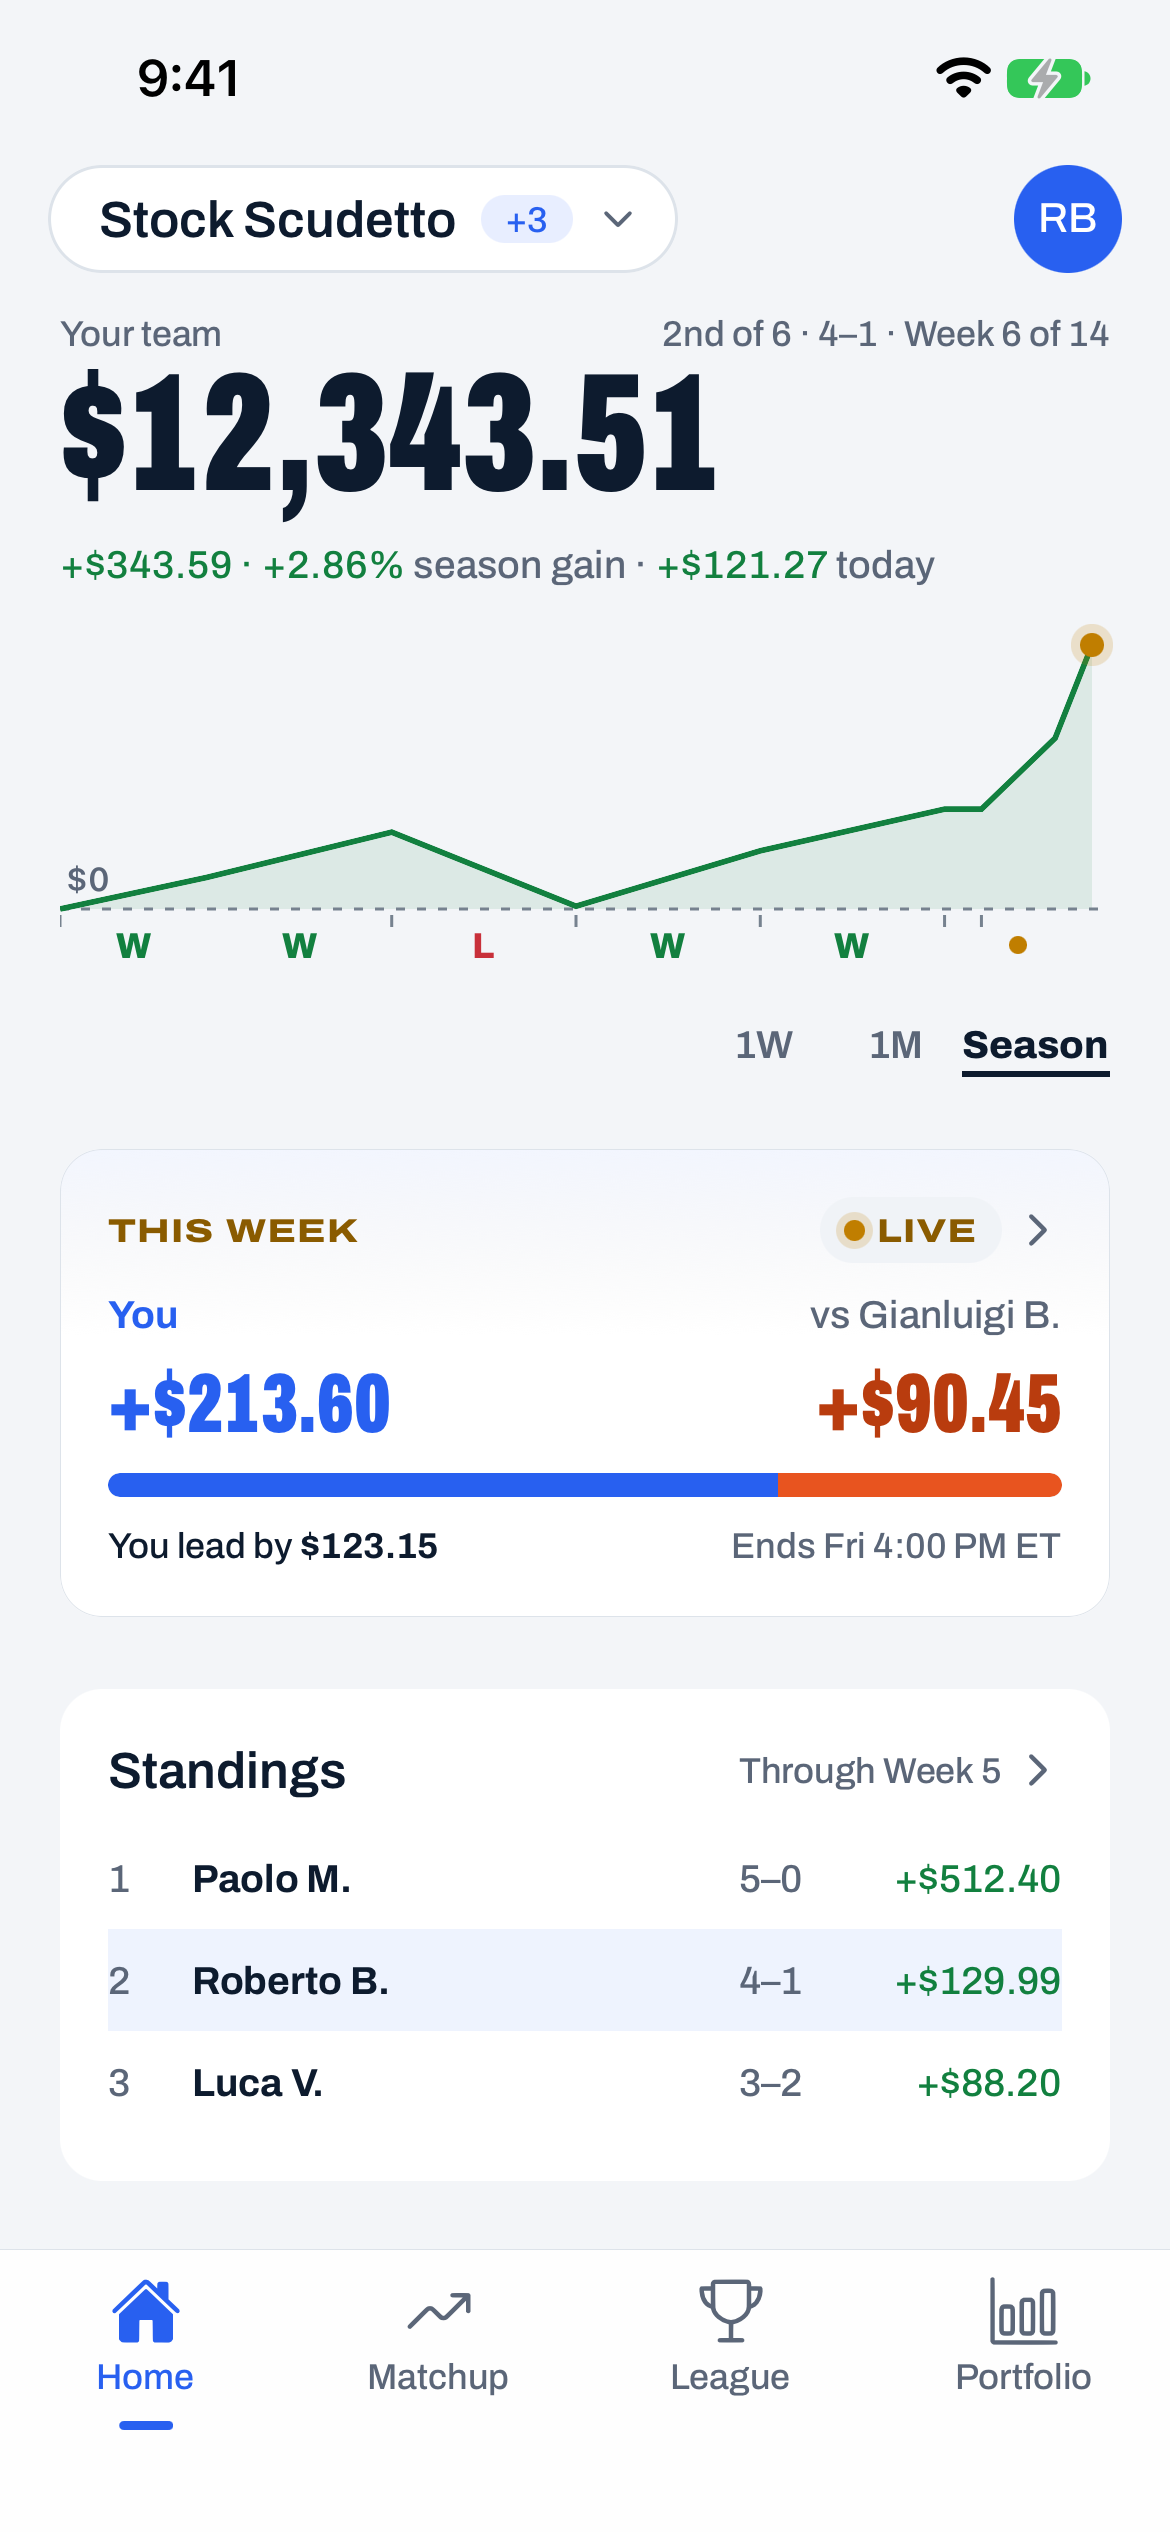
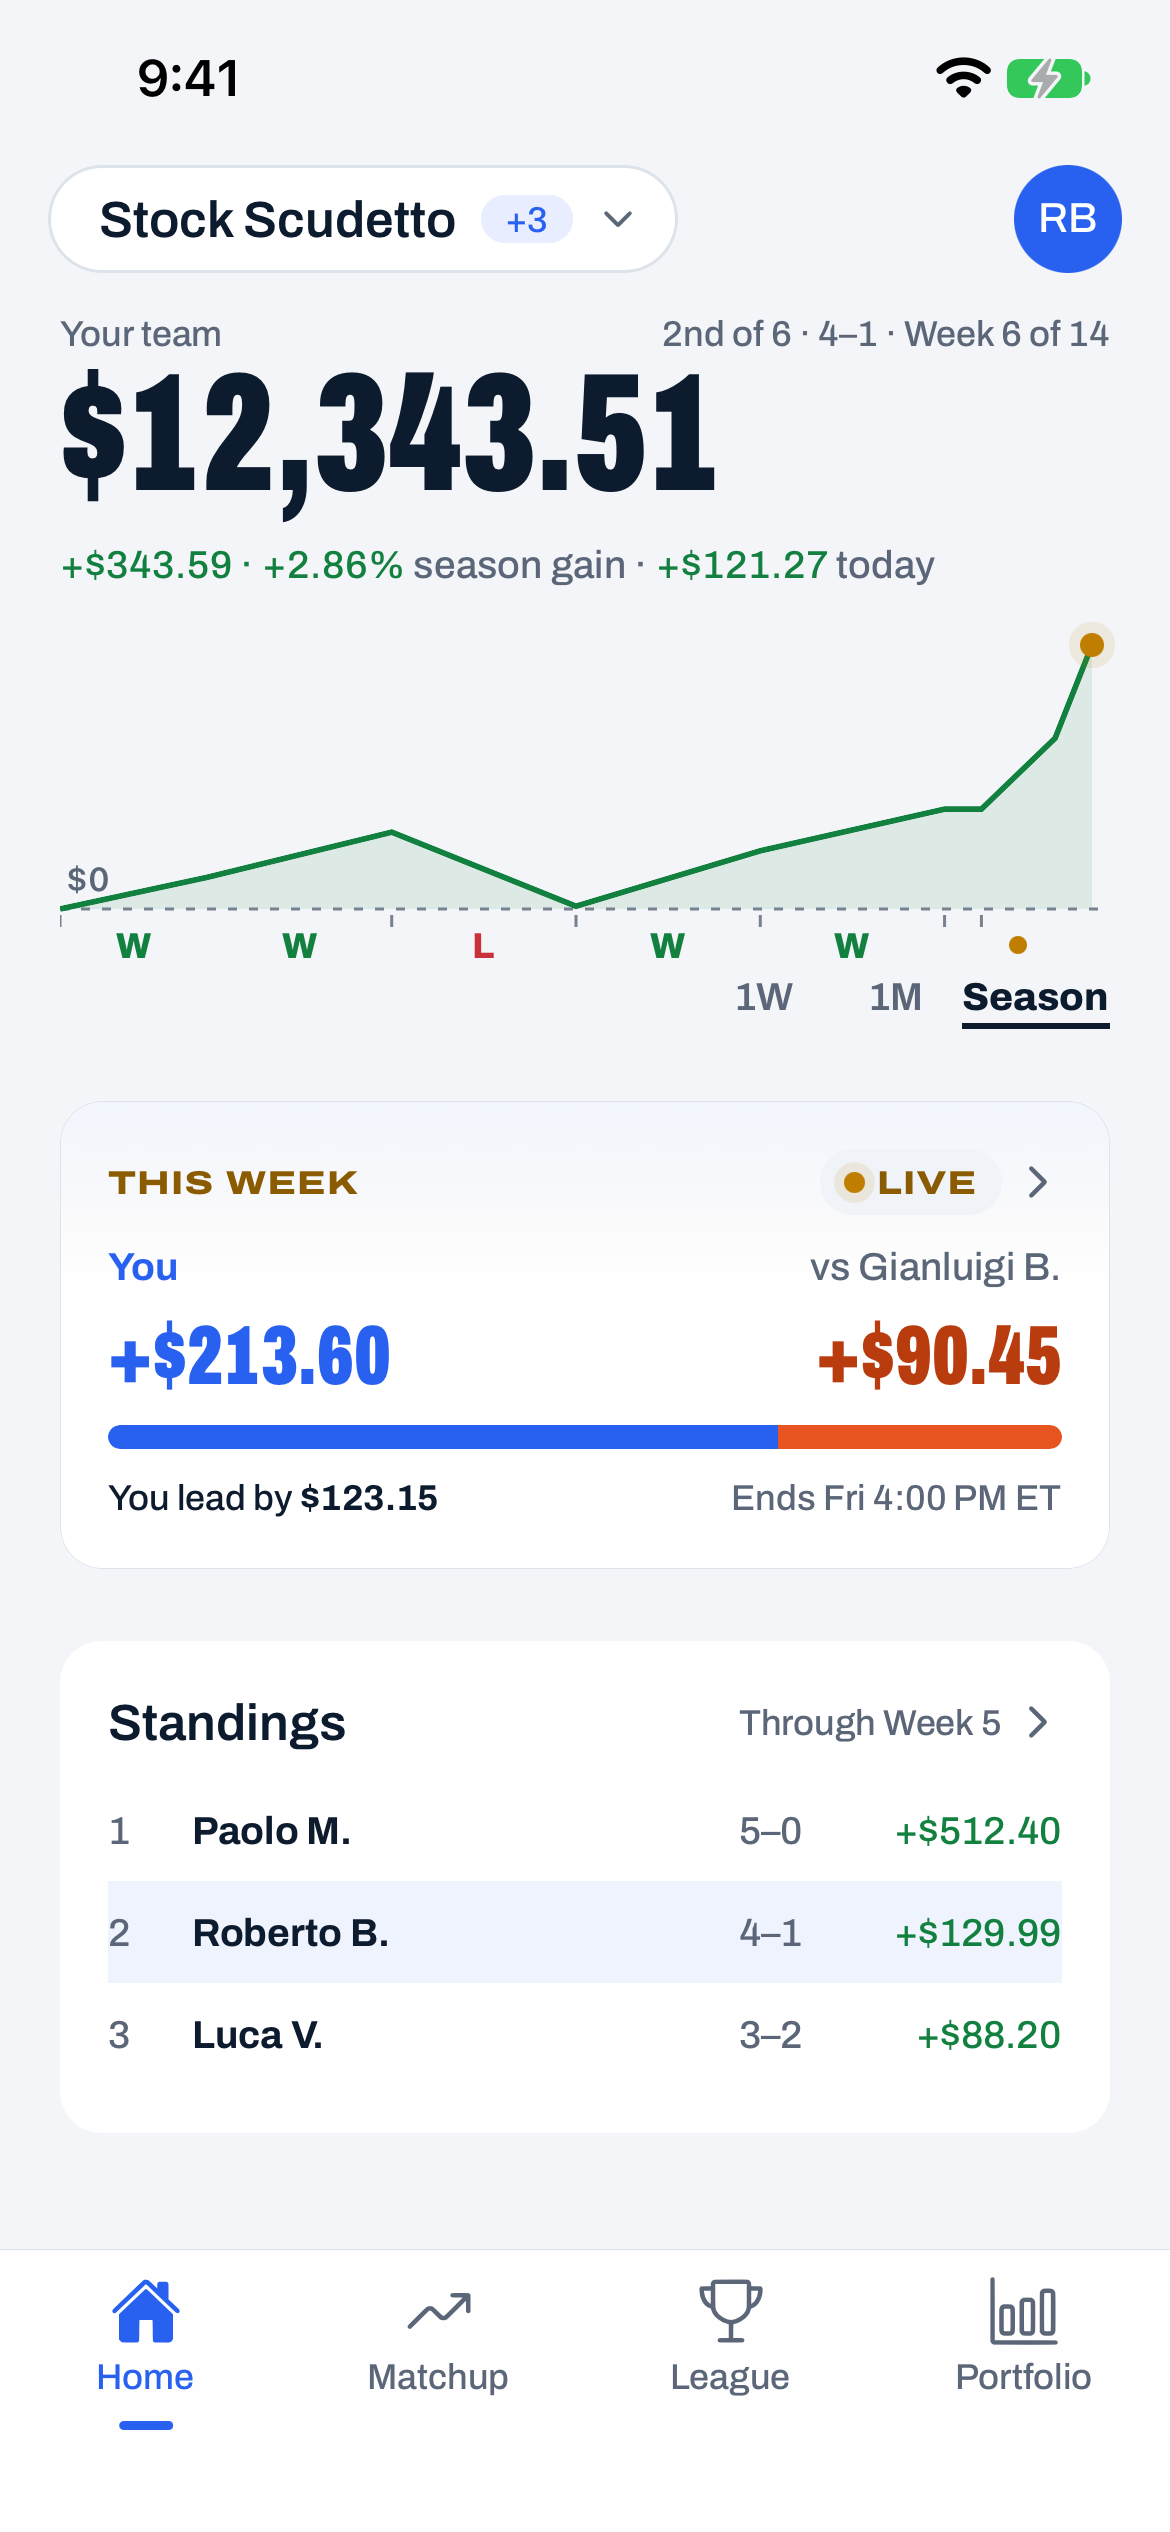
fix(mobile): the range tabs belong to the chart, 8pt under its marks (Design Lead gate F1)
The tabs floated: 24pt from the marks to the tab text, and 24pt from the underline to
This week. The 8pt layout gap sat between boxes, and both boxes carry empty space of their
own (the chart's strip under the marks, the label's line leading).

The tabs row is now pulled up by rangeTabsPullUp: 16pt at standard text, 14pt at the
1.3x cap, measured from device pixels. The labels sit 8.3pt under the marks on the 17e and
the 17 Pro, and 8.0pt at XL. Underline → This week stays 24.0pt.

The 44pt hit area stays on hitSlop, not padding. Verified on device: a tap 10pt above a
label and one 14pt below it both select the tab.

Tests pin the visible spacing and the hit area; the three mutations each fail a test.
Re-shot 01 on both phones and the XL 04, with the measurements in the README.

MOBILE_SIMULATOR.md: Metro's env reload never unsets a removed var; write every fixture
var explicitly and restart with --clear.

diff --git a/apps/mobile/tests-deno/home-week-marks.test.ts b/apps/mobile/tests-deno/home-week-marks.test.ts
@@ -8,7 +8,7 @@ import { assert, assertEquals } from 'jsr:@std/assert';
 import {
   weekMarks, regularWeekSlots, layoutWeekMarks, marksCollide, regularMarkResults, resultFromGains, seasonChartA11yLabel,
   rangeTabLook, rangeTabHitSlop, marksShownFor, chartLiveEnd, glyphWidth, pipFor, RANGE_TABS, MIN_HIT, BYE_MIN_SLOT, MARK_MAX_FONT_SCALE,
-  PIP_SIZE, PIP_RING_STROKE,
+  PIP_SIZE, PIP_RING_STROKE, rangeTabsPullUp, TAB_TEXT_UNDER_MARKS,
   type WeekMarkInput,
 } from '../lib/home/weekMarks.ts';
 import { buildSeasonGainSeries, type SeasonWeekInput } from '../lib/home/seasonGainSeries.ts';
@@ -260,4 +260,38 @@ Deno.test('range tabs: every hit area is at least 44 × 44, and neighbours never
   assert(block.includes('accessibilityRole="tab"'));
   assert(block.includes('accessibilityState={{ selected }}'));
   assert(!block.includes('SegmentedControl'));
+});
+
+// ── F1 (Design Lead gate, 2026-10-12): the range tabs belong to the chart ──────
+
+Deno.test('F1: the tab labels sit 8pt (±2) under the marks; the 24pt block gap sits under the tabs', () => {
+  assertEquals(TAB_TEXT_UNDER_MARKS, 8);
+  // Device pixels before the fix (capture pass): marks' glyph bottom -> tab glyph top was
+  // 24.3pt at standard text and 22.0pt at the 1.3x cap. The pull-up takes each to ~8.
+  const before = [[1, 24.3], [1.3, 22.0], [3, 22.0]] as const;
+  for (const [scale, gap] of before) {
+    const after = gap - rangeTabsPullUp(scale);
+    assert(Math.abs(after - TAB_TEXT_UNDER_MARKS) <= 2, `${scale}x: ${after}pt`);
+  }
+  assertEquals([rangeTabsPullUp(1), rangeTabsPullUp(1.3), rangeTabsPullUp(3)], [16, 14, 14]);
+  // Wiring: the row is pulled up by exactly that, and draws after the chart (on top of its strip).
+  const block = SOURCES['components/home/HomeSeason.tsx'];
+  assert(block.includes('<View style={[styles.tabs, { marginTop: -rangeTabsPullUp(fontScale) }]} accessibilityRole="tablist">'));
+  assert(block.indexOf('<SeasonChart') < block.indexOf('marginTop: -rangeTabsPullUp(fontScale)'));
+  // The block gap stays on the wrapper (24pt), never on the tabs.
+  assert(SOURCES['app/(tabs)/index.tsx'].includes("style={{ gap: space[7] }}"));
+});
+
+Deno.test('F1: the 44pt hit area comes from hitSlop, never visible padding', () => {
+  const block = SOURCES['components/home/HomeSeason.tsx'];
+  const tab = block.match(/ {2}tab: \{([^}]*)\}/)![1];
+  // Only the underline's own 2pt of air above the label; no vertical padding or minHeight.
+  assert(tab.includes('paddingTop: RANGE_TAB_UNDERLINE,'));
+  for (const banned of ['paddingVertical', 'paddingBottom', 'minHeight', 'height:']) assert(!tab.includes(banned), banned);
+  // The row is the label's height; hitSlop grows each tab to MIN_HIT tall at every scale.
+  for (const scale of [1, 1.3]) {
+    const content = 18 * scale + 2 * 2;
+    const slop = rangeTabHitSlop(content);
+    assert(content + slop.top + slop.bottom >= MIN_HIT);
+  }
 });

diff --git a/apps/mobile/lib/home/weekMarks.ts b/apps/mobile/lib/home/weekMarks.ts
@@ -256,6 +256,22 @@ export function chartLiveEnd(marketOpen: boolean, isPlayoff: boolean): boolean {
   return marketOpen && !isPlayoff;
 }
 
+/** The visible space from the marks' glyphs down to the tab labels' glyphs (Design Lead
+ * gate F1, 2026-10-12): the tabs belong to the chart, 8pt under it, while the 24pt block
+ * gap sits between their underline and the next card. */
+export const TAB_TEXT_UNDER_MARKS = 8;
+/** How far the tabs row is pulled up over the chart's bottom edge so the labels sit
+ * TAB_TEXT_UNDER_MARKS under the marks: the 8pt layout gap is between BOXES, and both
+ * boxes carry empty space of their own (the chart's strip under the marks' glyphs, the
+ * label's line leading). Measured from device pixels (capture pass): 24.3pt glyph to
+ * glyph at standard text, 22.0pt at the 1.3x cap, so the pull is 16pt there, 14pt here,
+ * and linear between. The tabs keep their 44pt hit area through hitSlop, not padding,
+ * and draw after the chart, so the overlap never covers a mark. */
+export function rangeTabsPullUp(fontScale: number): number {
+  const s = Math.min(Math.max(fontScale, 1), RANGE_TAB_MAX_FONT_SCALE);
+  return Math.round(16 - ((s - 1) / (RANGE_TAB_MAX_FONT_SCALE - 1)) * 2);
+}
+
 /** The axis marks show in the Season window only (the one with week ticks). */
 export function marksShownFor(range: RangeValue): boolean {
   return range === 'Season';

diff --git a/apps/mobile/components/home/HomeSeason.tsx b/apps/mobile/components/home/HomeSeason.tsx
@@ -10,7 +10,7 @@ import { windowSeries, type SeasonGainSeriesResult, type SeasonWindow } from '@/
 import { HOME_CHART_HEIGHT } from '@/lib/home/calmHome';
 import {
   RANGE_TABS, RANGE_TAB_MAX_FONT_SCALE, RANGE_TAB_UNDERLINE, MIN_HIT, marksShownFor, rangeTabHitSlop, rangeTabLook,
-  regularMarkResults, seasonChartA11yLabel, chartLiveEnd,
+  regularMarkResults, seasonChartA11yLabel, chartLiveEnd, rangeTabsPullUp,
 } from '@/lib/home/weekMarks';
 
 // Stockpile — <HomeSeason> (a calm Home, decided A, 2026-10-12). The old Season
@@ -63,7 +63,9 @@ export function HomeSeason({ series, weekResults, currentWeek, marketOpen, isPla
         drawKey={window}
         height={HOME_CHART_HEIGHT}
       />
-      <View style={styles.tabs} accessibilityRole="tablist">
+      {/* F1 (Design Lead gate): the labels sit 8pt under the marks (rangeTabsPullUp); the row
+          draws after the chart, so its pulled-up box overlaps only the chart's empty strip. */}
+      <View style={[styles.tabs, { marginTop: -rangeTabsPullUp(fontScale) }]} accessibilityRole="tablist">
         {RANGE_TABS.map((t) => {
           const selected = t.value === window;
           const look = rangeTabLook(selected);

diff --git a/docs/design/captures/calm-home/README.md b/docs/design/captures/calm-home/README.md
@@ -27,7 +27,7 @@ bottom, which is the 24 pt gap plus the text line's own descent.
 
 | # | File | Shows | Env / navigation | Gap (pt) |
 |---|---|---|---|---|
-| 1 | `01-live_open-{17e,17pro}-light.png`, `…-fold.png` | Hero → chart (124 pt, W W L W W, the live dot on week 6) → 1W · 1M · Season; This week ("Live", chevron, 28 pt scores); Standings (chevron). Everything, Standings' 3rd row included, sits above the fold on BOTH phones (17e: the Standings card ends at 726 pt, fold 749.7). The `-fold` copies draw the fold. | `HOME_FIXTURE=live_open` | 24.0 · 24.0 |
+| 1 | `01-live_open-{17e,17pro}-light.png`, `…-fold.png` | Hero → chart (124 pt, W W L W W, the live dot on week 6) → 1W · 1M · Season; This week ("Live", chevron, 28 pt scores); Standings (chevron). Everything, Standings' 3rd row included, sits above the fold on BOTH phones (17e, after F1: the Standings card ends at 711 pt, fold 749.7). The `-fold` copies draw the fold. | `HOME_FIXTURE=live_open` | 24.0 · 24.0 (tabs: 8.3 under the marks, F1) |
 | 1D | `01-live_open-17e-dark.png` | Dark spot-check of 1 | same, appearance dark | 24.0 · 24.0 |
 | 2 | `02-live_closed-*` | Week 6 has no mark (closed: no result yet); the line's end is the static dot | `live_closed` | 24.0 · 24.0 |
 | 2 | `02-scoring-*` | 28 pt skeletons, "Scoring…" | `scoring` | 24.0 · 24.0 |
@@ -54,6 +54,28 @@ bottom, which is the 24 pt gap plus the text line's own descent.
 | 9 | `09-complete-member-out-17e-light.png` | Member who said I'm out: the GS-14 "You're out" chip | `RENEWAL_FIXTURE=out`, same | 24.0 |
 | 10 | `10-drafting_on_clock-*` | Unchanged apart from the gap | `drafting_on_clock` | 24.0 |
 | 11 | `11-reduce-motion-17e.mov`, `…-frames.png` | Reduce Motion: the frame after the skeleton already has the line fully drawn (#170 → #174); Season → 1W (#381 → #382) and back (#441 → #442) swap within one frame | `live_open`, Reduce Motion on | — |
+
+## F1 re-check (Design Lead gate on e821bc8e): the range tabs belong to the chart
+
+Before the fix, the tabs floated: marks' glyphs → tab text was 24.3 pt, and underline → This week
+was also 24.0. The cause: the 8 pt layout gap sits between BOXES, and both boxes carry empty space
+of their own (the chart's strip under the marks, the label's line leading). The fix pulls the tabs
+row up (`rangeTabsPullUp`: 16 pt at standard text, 14 pt at the 1.3× cap). The 44 pt hit area stays
+on `hitSlop`; on device a tap 10 pt above "1M" (over the chart's strip) and one 14 pt below "1W"
+both select the tab.
+
+Re-shot after the fix, measured from pixels (`tabgap.py`: the lowest mark pixel → the first
+tab-label pixel; the underline's last row → the card's first row):
+
+| File | Marks → tab text | Underline → This week |
+|---|---|---|
+| `01-live_open-17e-light.png` | **8.3 pt** (319.3 → 327.7) | **24.0 pt** (343.0 → 367.0) |
+| `01-live_open-17pro-light.png` | **8.3 pt** (334.3 → 342.7) | **24.0 pt** (358.0 → 382.0) |
+| `04-live_open-xl-17e-light.png` | **8.0 pt** (572.0 → 580.0) | **24.0 pt** (600.0 → 624.0) |
+
+Only these three were re-shot, as asked. The other in-season stills (2, 3, 5, the Dark 1 and 4, and
+the XL-scrolled/XXXL ones) and the recordings show the tabs as they were before F1, 16 pt lower.
+Nothing else in them changes.
 
 ## R-1 check (score shrink)
 

diff --git a/docs/testing/MOBILE_SIMULATOR.md b/docs/testing/MOBILE_SIMULATOR.md
@@ -163,6 +163,12 @@ panels too.
   Verified 2026-09-29 against the design gallery's `useMotion().reduced`
   readout: `true` after the write + relaunch, `false` after undoing it. This
   replaces the Settings-switch drag above for scripted captures.
+- **Metro's env reload never unsets a variable.** Editing `.env.local` while Metro runs reloads
+  the bundle with the new values, but a var you DELETE from the file stays set at its old value
+  (Expo CLI only adds and overrides). Found 2026-10-12: a removed `EXPO_PUBLIC_SCORED_OUTCOME=lost`
+  made a "won" capture render lost. Write every fixture var explicitly in each `.env.local`
+  (empty for "unset", e.g. `EXPO_PUBLIC_DRAFT_START_FIXTURE=`), and restart Metro with `--clear`
+  (`npx expo start --go --port <port> --clear < /dev/null`) whenever you switch fixture sets.
 - **`CI=1 npx expo start` disables file watching.** It's the usual way to keep
   a background Metro from prompting, but in CI mode Metro never picks up edits:
   the bundle silently goes stale, and the only trace is one log line, "Metro is
